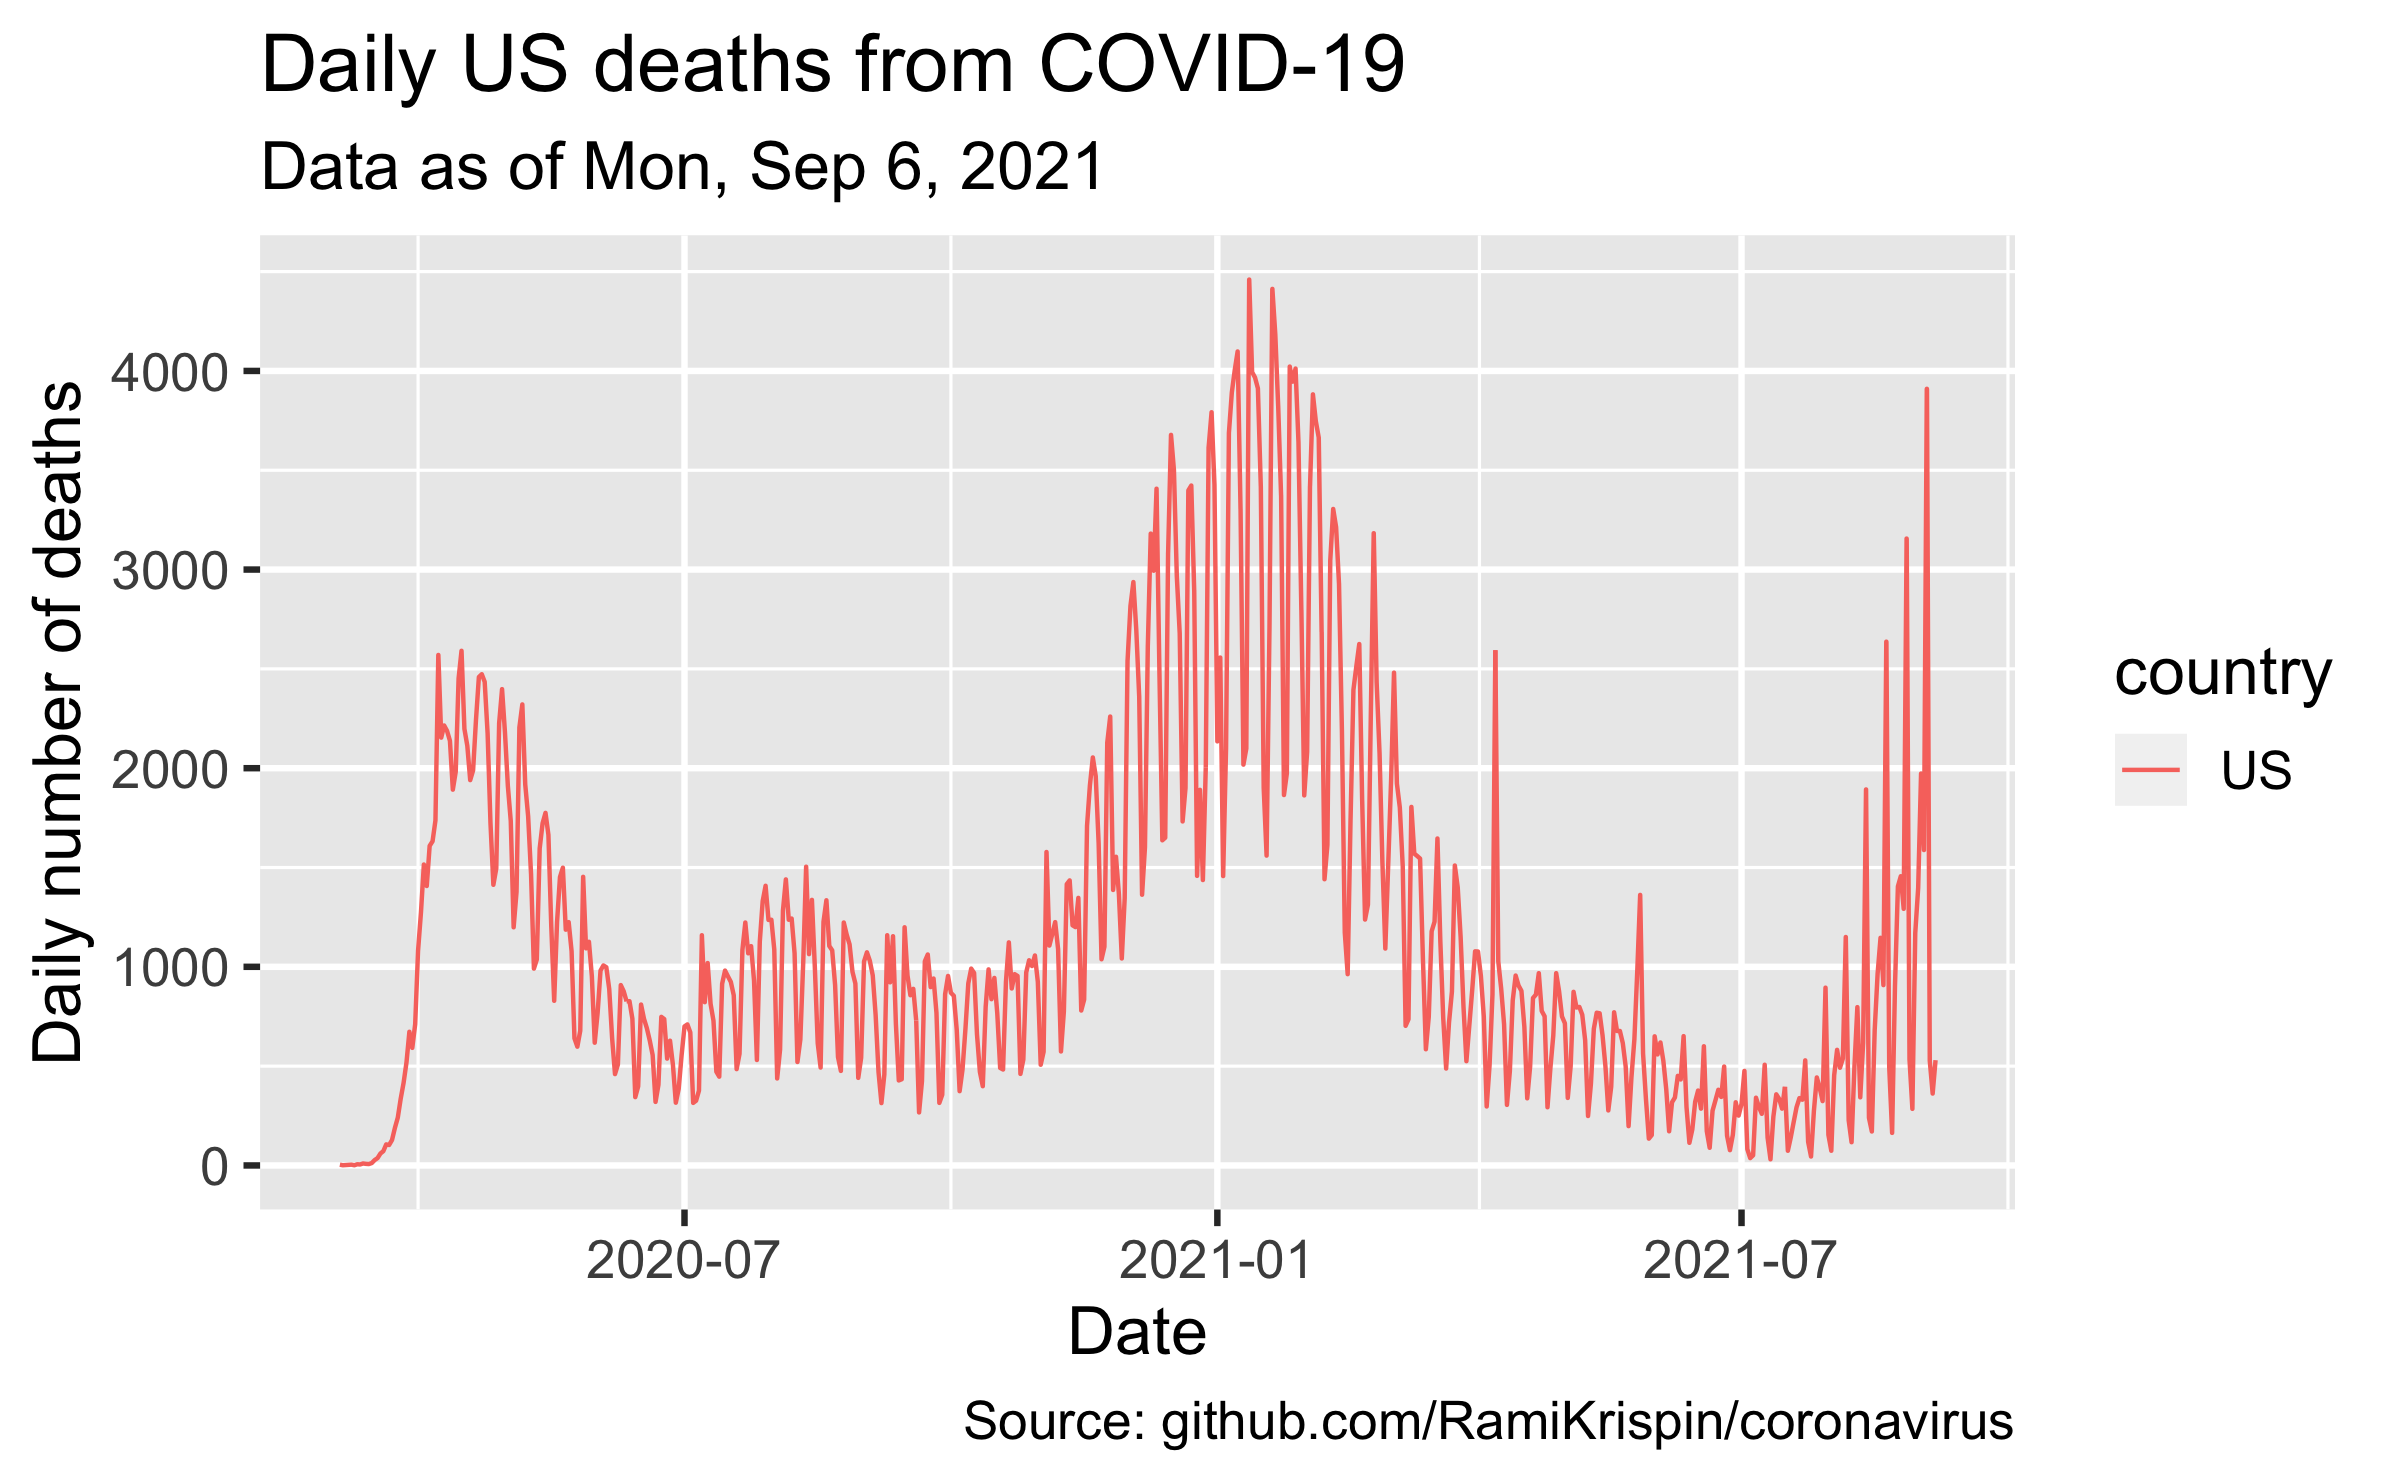
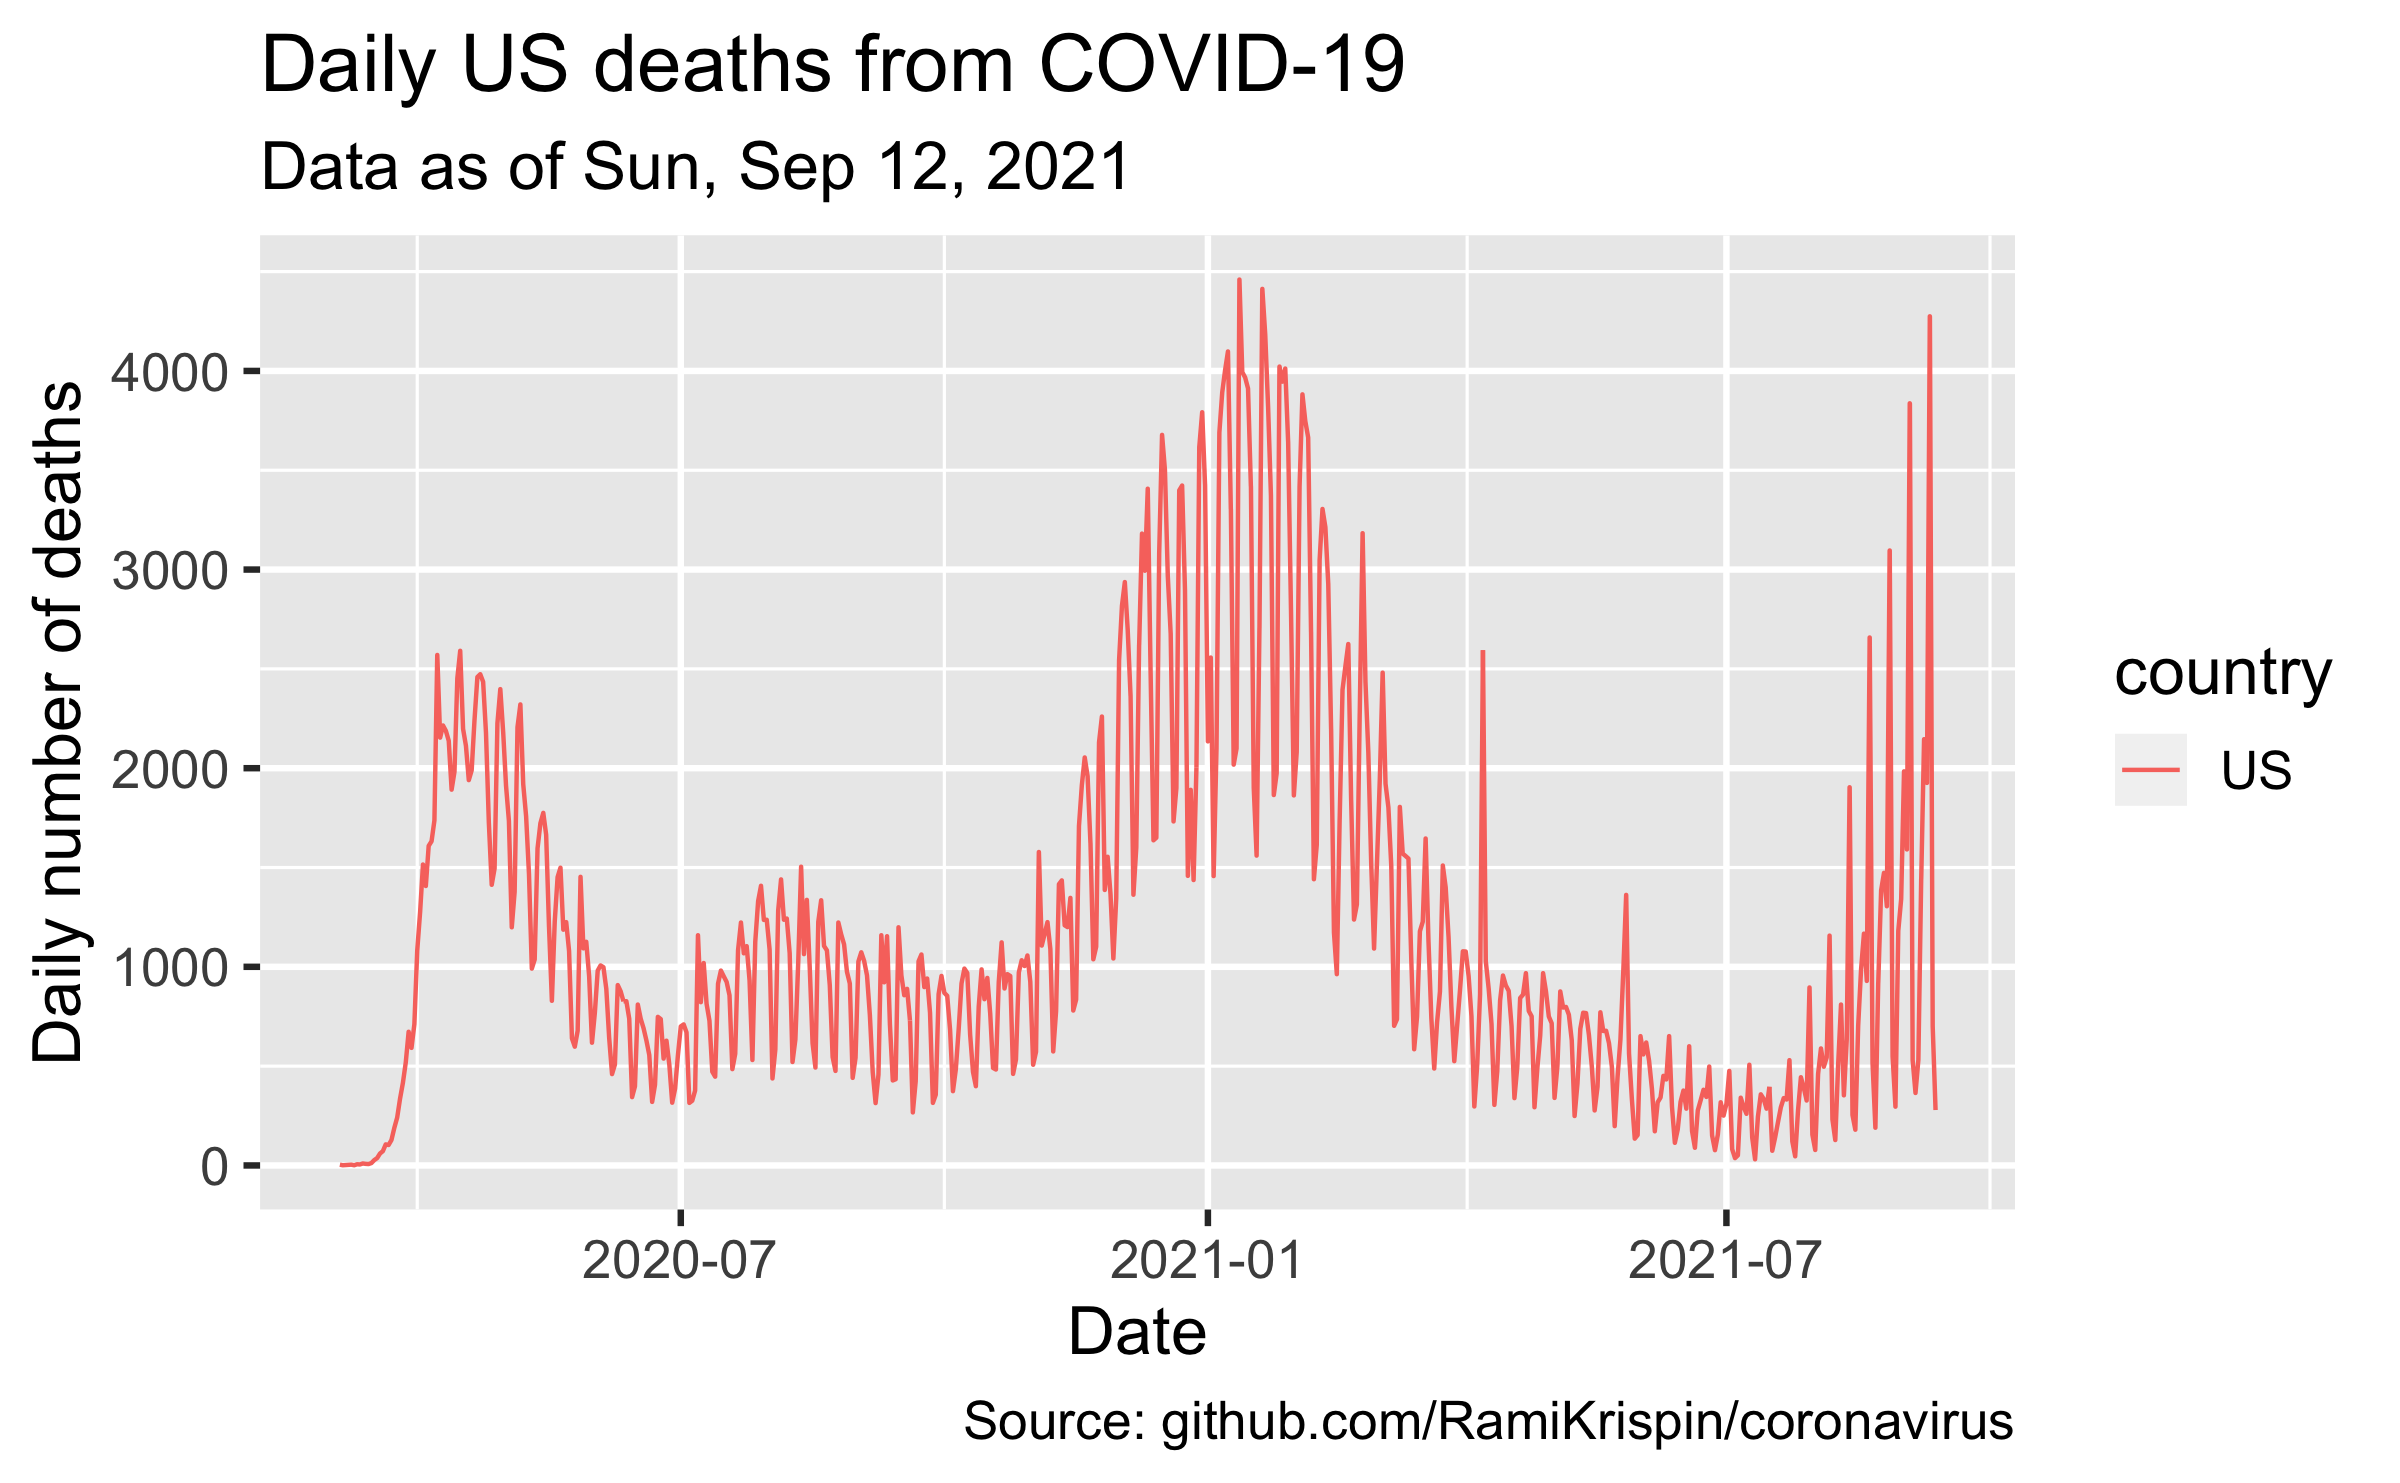
update coronavirus

Changed region(s): [[0.1875, 0.1551, 0.8125, 0.8685], [0.25, 0.0931, 0.4688, 0.1551], [0.25, 0.8375, 0.3438, 0.8685]]

diff --git a/docs/slides/week-04/w4-l03-tidying.html b/docs/slides/week-04/w4-l03-tidying.html
@@ -81,7 +81,7 @@ The US Centers for Medicare and Medicaid Services now requires hospitals to [rel
 ### .green[We have...]
 
 ```
-## # A tibble: 3 x 4
+## # A tibble: 3 × 4
 ##      ID proc_1       proc_2       proc_3     
 ##   &lt;dbl&gt; &lt;chr&gt;        &lt;chr&gt;        &lt;chr&gt;      
 ## 1     1 stent_nocomp othercardio  &lt;NA&gt;       
@@ -95,7 +95,7 @@ The US Centers for Medicare and Medicaid Services now requires hospitals to [rel
 ### .pink[We want...]
 
 ```
-## # A tibble: 9 x 3
+## # A tibble: 9 × 3
 ##      ID proc_no procedure   
 ##   &lt;dbl&gt; &lt;chr&gt;   &lt;chr&gt;       
 ## 1     1 proc_1  stent_nocomp
@@ -155,7 +155,7 @@ class: middle
 more columns
 
 ```
-## # A tibble: 3 x 4
+## # A tibble: 3 × 4
 ##      ID proc_1       proc_2       proc_3     
 ##   &lt;dbl&gt; &lt;chr&gt;        &lt;chr&gt;        &lt;chr&gt;      
 ## 1     1 stent_nocomp othercardio  &lt;NA&gt;       
@@ -170,7 +170,7 @@ more columns
 more rows
 
 ```
-## # A tibble: 9 x 3
+## # A tibble: 9 × 3
 ##      ID proc_no procedure   
 ##   &lt;dbl&gt; &lt;chr&gt;   &lt;chr&gt;       
 ## 1     1 proc_1  stent_nocomp
@@ -284,7 +284,7 @@ interventions
 ```
 
 ```
-## # A tibble: 9 x 3
+## # A tibble: 9 × 3
 ##      ID proc_no procedure   
 ##   &lt;dbl&gt; &lt;chr&gt;   &lt;chr&gt;       
 ## 1     1 proc_1  stent_nocomp
@@ -313,7 +313,7 @@ prices
 ```
 
 ```
-## # A tibble: 4 x 2
+## # A tibble: 4 × 2
 ##   procedure    medicare_price
 ##   &lt;chr&gt;                 &lt;dbl&gt;
 ## 1 stent_nocomp         15827.
@@ -330,7 +330,7 @@ interventions %&gt;%
 ```
 
 ```
-## # A tibble: 9 x 4
+## # A tibble: 9 × 4
 ##      ID proc_no procedure    medicare_price
 ##   &lt;dbl&gt; &lt;chr&gt;   &lt;chr&gt;                 &lt;dbl&gt;
 ## 1     1 proc_1  stent_nocomp         15827.
@@ -365,7 +365,7 @@ interventions %&gt;%
 ```
 
 ```
-## # A tibble: 3 x 4
+## # A tibble: 3 × 4
 ##      ID proc_1       proc_2       proc_3     
 ##   &lt;dbl&gt; &lt;chr&gt;        &lt;chr&gt;        &lt;chr&gt;      
 ## 1     1 stent_nocomp othercardio  &lt;NA&gt;       
@@ -400,7 +400,7 @@ trump
 ```
 
 ```
-## # A tibble: 2,702 x 4
+## # A tibble: 2,702 × 4
 ##    subgroup date       approval disapproval
 ##    &lt;chr&gt;    &lt;date&gt;        &lt;dbl&gt;       &lt;dbl&gt;
 ##  1 Voters   2020-10-04     44.7        52.2
@@ -451,7 +451,7 @@ trump_longer
 ```
 
 ```
-## # A tibble: 5,404 x 4
+## # A tibble: 5,404 × 4
 ##    subgroup date       rating_type rating_value
 ##    &lt;chr&gt;    &lt;date&gt;     &lt;chr&gt;              &lt;dbl&gt;
 ##  1 Voters   2020-10-04 approval            44.7
@@ -548,56 +548,6 @@ First, we should call the libraries we used to make the plot during the first we
 library(devtools) #to install package from GitHub
 #reinstall coronavirus package to update #'s (they update daily)
 devtools::install_github("RamiKrispin/coronavirus")
-```
-
-```
-## utf8        (1.2.1 -&gt; 1.2.2) [CRAN]
-## pillar      (1.6.1 -&gt; 1.6.2) [CRAN]
-## tibble      (3.1.2 -&gt; 3.1.4) [CRAN]
-## waldo       (0.2.5 -&gt; 0.3.0) [CRAN]
-## R6          (2.5.0 -&gt; 2.5.1) [CRAN]
-## xfun        (0.24  -&gt; 0.25 ) [CRAN]
-## stringi     (1.7.3 -&gt; 1.7.4) [CRAN]
-## cachem      (1.0.5 -&gt; 1.0.6) [CRAN]
-## openssl     (1.4.4 -&gt; 1.4.5) [CRAN]
-## credentials (1.3.0 -&gt; 1.3.1) [CRAN]
-## gert        (1.3.1 -&gt; 1.3.2) [CRAN]
-## testthat    (3.0.3 -&gt; 3.0.4) [CRAN]
-## 
-##   There is a binary version available but the source
-##   version is later:
-##         binary source needs_compilation
-## openssl  1.4.4  1.4.5              TRUE
-## 
-## 
-## The downloaded binary packages are in
-## 	/var/folders/qz/j70pv28n1bsfj347f8fh3zhc0000gn/T//RtmpOsZfA7/downloaded_packages
-##   
-   checking for file ‘/private/var/folders/qz/j70pv28n1bsfj347f8fh3zhc0000gn/T/RtmpOsZfA7/remotes12d252399fa8f/RamiKrispin-coronavirus-df000e1/DESCRIPTION’ ...
-  
-✓  checking for file ‘/private/var/folders/qz/j70pv28n1bsfj347f8fh3zhc0000gn/T/RtmpOsZfA7/remotes12d252399fa8f/RamiKrispin-coronavirus-df000e1/DESCRIPTION’
-## 
-  
-─  preparing ‘coronavirus’:
-##    checking DESCRIPTION meta-information ...
-  
-✓  checking DESCRIPTION meta-information
-## 
-  
-─  checking for LF line-endings in source and make files and shell scripts
-## 
-  
-─  checking for empty or unneeded directories
-## 
-  
-─  building ‘coronavirus_0.3.3.tar.gz’
-## 
-  
-   
-## 
-```
-
-```r
 library(coronavirus)
 library(lubridate) #to facilitate working with dates
 library(glue) #we use in formatting the date
@@ -702,7 +652,7 @@ as_of_date &lt;- country_data %&gt;%
 as_of_date_formatted &lt;- glue("{wday(as_of_date, label = TRUE)}, {month(as_of_date, label = TRUE)} {day(as_of_date)}, {year(as_of_date)}")
 ```
 
-These data are as of Mon, Sep 6, 2021.
+These data are as of Sun, Sep 12, 2021.
 
 ---
 

diff --git a/static/slides/week-04/w4-l03-tidying.html b/static/slides/week-04/w4-l03-tidying.html
@@ -81,7 +81,7 @@ The US Centers for Medicare and Medicaid Services now requires hospitals to [rel
 ### .green[We have...]
 
 ```
-## # A tibble: 3 x 4
+## # A tibble: 3 × 4
 ##      ID proc_1       proc_2       proc_3     
 ##   &lt;dbl&gt; &lt;chr&gt;        &lt;chr&gt;        &lt;chr&gt;      
 ## 1     1 stent_nocomp othercardio  &lt;NA&gt;       
@@ -95,7 +95,7 @@ The US Centers for Medicare and Medicaid Services now requires hospitals to [rel
 ### .pink[We want...]
 
 ```
-## # A tibble: 9 x 3
+## # A tibble: 9 × 3
 ##      ID proc_no procedure   
 ##   &lt;dbl&gt; &lt;chr&gt;   &lt;chr&gt;       
 ## 1     1 proc_1  stent_nocomp
@@ -155,7 +155,7 @@ class: middle
 more columns
 
 ```
-## # A tibble: 3 x 4
+## # A tibble: 3 × 4
 ##      ID proc_1       proc_2       proc_3     
 ##   &lt;dbl&gt; &lt;chr&gt;        &lt;chr&gt;        &lt;chr&gt;      
 ## 1     1 stent_nocomp othercardio  &lt;NA&gt;       
@@ -170,7 +170,7 @@ more columns
 more rows
 
 ```
-## # A tibble: 9 x 3
+## # A tibble: 9 × 3
 ##      ID proc_no procedure   
 ##   &lt;dbl&gt; &lt;chr&gt;   &lt;chr&gt;       
 ## 1     1 proc_1  stent_nocomp
@@ -284,7 +284,7 @@ interventions
 ```
 
 ```
-## # A tibble: 9 x 3
+## # A tibble: 9 × 3
 ##      ID proc_no procedure   
 ##   &lt;dbl&gt; &lt;chr&gt;   &lt;chr&gt;       
 ## 1     1 proc_1  stent_nocomp
@@ -313,7 +313,7 @@ prices
 ```
 
 ```
-## # A tibble: 4 x 2
+## # A tibble: 4 × 2
 ##   procedure    medicare_price
 ##   &lt;chr&gt;                 &lt;dbl&gt;
 ## 1 stent_nocomp         15827.
@@ -330,7 +330,7 @@ interventions %&gt;%
 ```
 
 ```
-## # A tibble: 9 x 4
+## # A tibble: 9 × 4
 ##      ID proc_no procedure    medicare_price
 ##   &lt;dbl&gt; &lt;chr&gt;   &lt;chr&gt;                 &lt;dbl&gt;
 ## 1     1 proc_1  stent_nocomp         15827.
@@ -365,7 +365,7 @@ interventions %&gt;%
 ```
 
 ```
-## # A tibble: 3 x 4
+## # A tibble: 3 × 4
 ##      ID proc_1       proc_2       proc_3     
 ##   &lt;dbl&gt; &lt;chr&gt;        &lt;chr&gt;        &lt;chr&gt;      
 ## 1     1 stent_nocomp othercardio  &lt;NA&gt;       
@@ -400,7 +400,7 @@ trump
 ```
 
 ```
-## # A tibble: 2,702 x 4
+## # A tibble: 2,702 × 4
 ##    subgroup date       approval disapproval
 ##    &lt;chr&gt;    &lt;date&gt;        &lt;dbl&gt;       &lt;dbl&gt;
 ##  1 Voters   2020-10-04     44.7        52.2
@@ -451,7 +451,7 @@ trump_longer
 ```
 
 ```
-## # A tibble: 5,404 x 4
+## # A tibble: 5,404 × 4
 ##    subgroup date       rating_type rating_value
 ##    &lt;chr&gt;    &lt;date&gt;     &lt;chr&gt;              &lt;dbl&gt;
 ##  1 Voters   2020-10-04 approval            44.7
@@ -548,56 +548,6 @@ First, we should call the libraries we used to make the plot during the first we
 library(devtools) #to install package from GitHub
 #reinstall coronavirus package to update #'s (they update daily)
 devtools::install_github("RamiKrispin/coronavirus")
-```
-
-```
-## utf8        (1.2.1 -&gt; 1.2.2) [CRAN]
-## pillar      (1.6.1 -&gt; 1.6.2) [CRAN]
-## tibble      (3.1.2 -&gt; 3.1.4) [CRAN]
-## waldo       (0.2.5 -&gt; 0.3.0) [CRAN]
-## R6          (2.5.0 -&gt; 2.5.1) [CRAN]
-## xfun        (0.24  -&gt; 0.25 ) [CRAN]
-## stringi     (1.7.3 -&gt; 1.7.4) [CRAN]
-## cachem      (1.0.5 -&gt; 1.0.6) [CRAN]
-## openssl     (1.4.4 -&gt; 1.4.5) [CRAN]
-## credentials (1.3.0 -&gt; 1.3.1) [CRAN]
-## gert        (1.3.1 -&gt; 1.3.2) [CRAN]
-## testthat    (3.0.3 -&gt; 3.0.4) [CRAN]
-## 
-##   There is a binary version available but the source
-##   version is later:
-##         binary source needs_compilation
-## openssl  1.4.4  1.4.5              TRUE
-## 
-## 
-## The downloaded binary packages are in
-## 	/var/folders/qz/j70pv28n1bsfj347f8fh3zhc0000gn/T//RtmpOsZfA7/downloaded_packages
-##   
-   checking for file ‘/private/var/folders/qz/j70pv28n1bsfj347f8fh3zhc0000gn/T/RtmpOsZfA7/remotes12d252399fa8f/RamiKrispin-coronavirus-df000e1/DESCRIPTION’ ...
-  
-✓  checking for file ‘/private/var/folders/qz/j70pv28n1bsfj347f8fh3zhc0000gn/T/RtmpOsZfA7/remotes12d252399fa8f/RamiKrispin-coronavirus-df000e1/DESCRIPTION’
-## 
-  
-─  preparing ‘coronavirus’:
-##    checking DESCRIPTION meta-information ...
-  
-✓  checking DESCRIPTION meta-information
-## 
-  
-─  checking for LF line-endings in source and make files and shell scripts
-## 
-  
-─  checking for empty or unneeded directories
-## 
-  
-─  building ‘coronavirus_0.3.3.tar.gz’
-## 
-  
-   
-## 
-```
-
-```r
 library(coronavirus)
 library(lubridate) #to facilitate working with dates
 library(glue) #we use in formatting the date
@@ -702,7 +652,7 @@ as_of_date &lt;- country_data %&gt;%
 as_of_date_formatted &lt;- glue("{wday(as_of_date, label = TRUE)}, {month(as_of_date, label = TRUE)} {day(as_of_date)}, {year(as_of_date)}")
 ```
 
-These data are as of Mon, Sep 6, 2021.
+These data are as of Sun, Sep 12, 2021.
 
 ---
 
